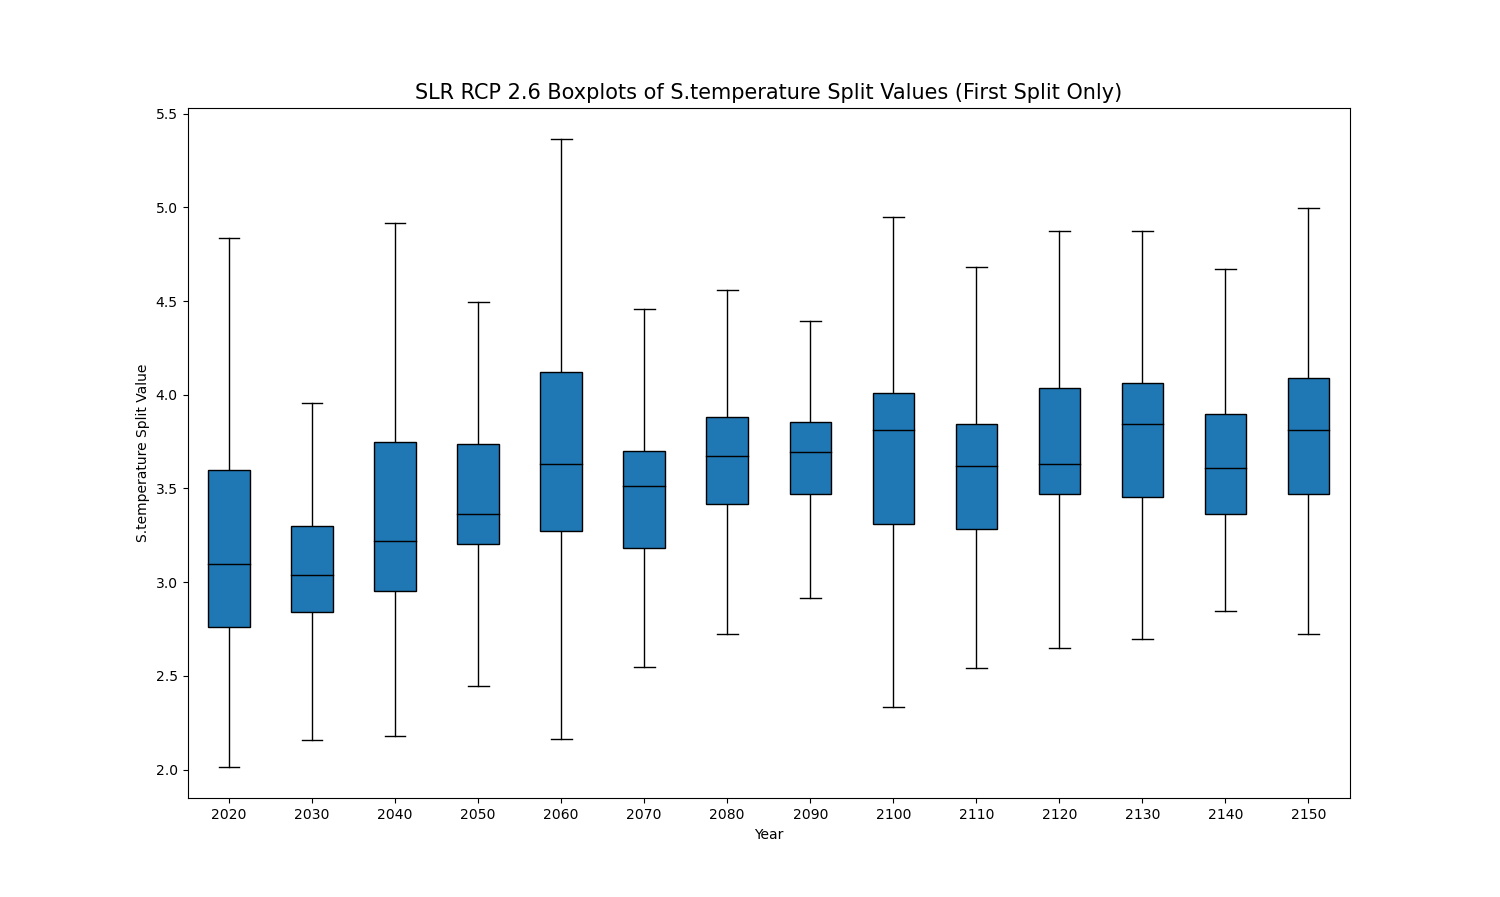
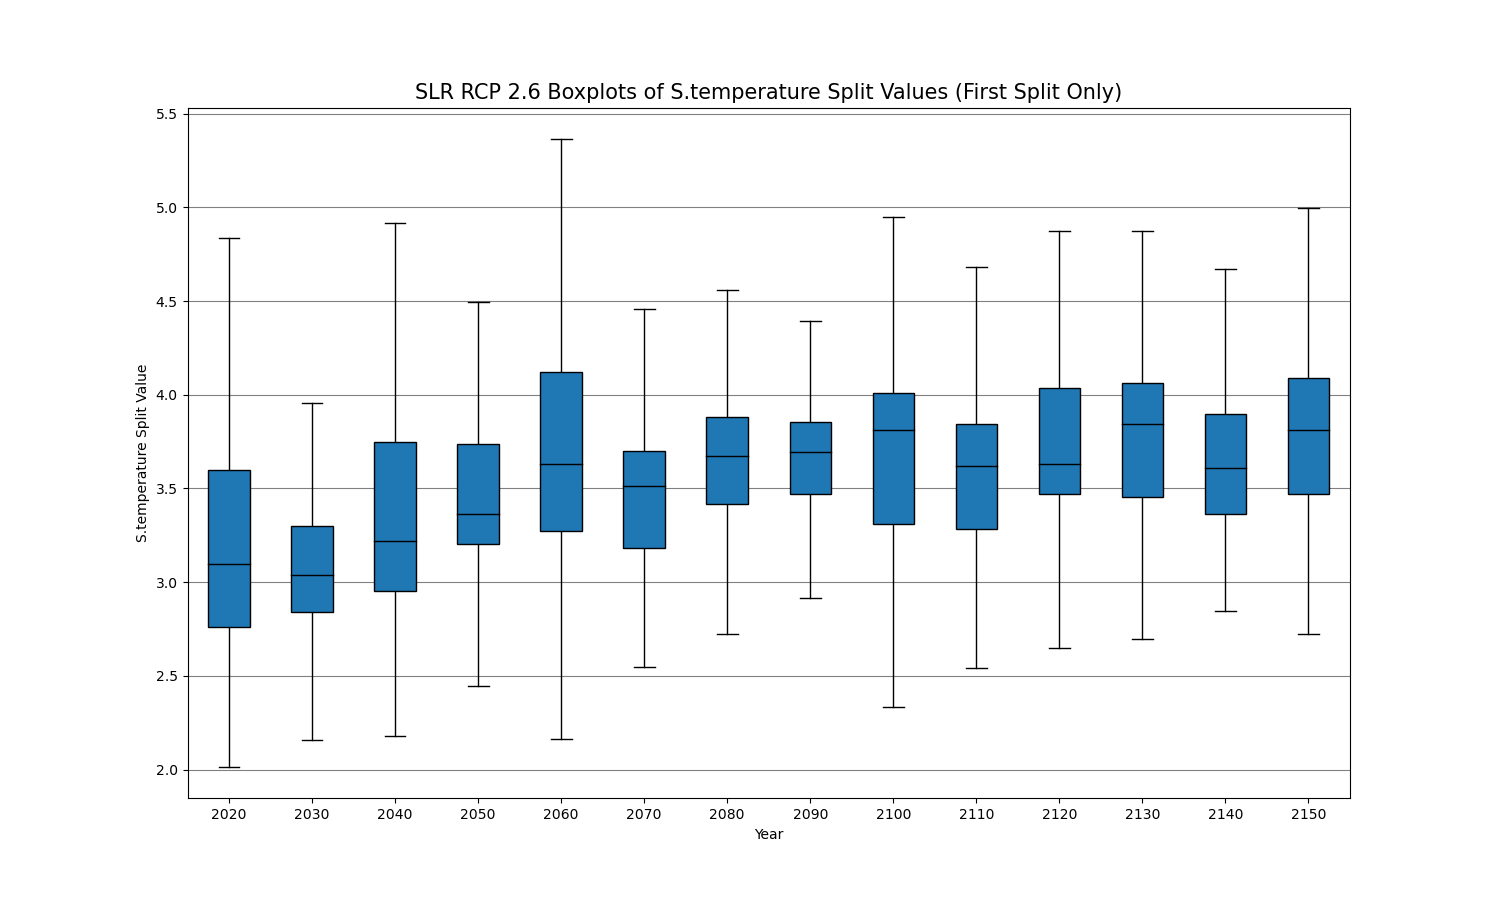
compare max_feature value accuracies & added gridlines to boxplots

diff --git a/python_code/sklearn_slr_classification.py b/python_code/sklearn_slr_classification.py
@@ -752,7 +752,8 @@ def Stemp_boxplots(year_list, rcp, first_only=False, show_outliers=False):
     rcp_no_space_no_period = rcp_no_space.replace(".", "")
     split_df_list = []
     for yr in year_list:
-        file_path = path + rcp_no_space_no_period + "_" + str(yr) + "_splits.csv"
+        file_path = "../data/new_csv/SLR_splits/classification_forest/" + rcp_no_space_no_period + "_" + str(yr) \
+                    + "_splits.csv"
         df = pd.read_csv(file_path)
         split_df_list.append(df)
 
@@ -772,6 +773,7 @@ def Stemp_boxplots(year_list, rcp, first_only=False, show_outliers=False):
     plt.ylabel("S.temperature Split Value")
     plt.xlabel("Year")
     plt.title(title, fontsize=15)
+    plt.grid(b=True, axis='y', color='gray')
     plt.show()
 
 
@@ -912,9 +914,27 @@ if __name__ == '__main__':
     list_10_yrs = []
     for yr in range(2020, 2151, 10):
         list_10_yrs.append(yr)
-    rcp26_forest_list_10yrs = load_forests(list_10_yrs, "rcp26")
-    rcp85_forest_list_10yrs = load_forests(list_10_yrs, "rcp85")
-    path = "../data/new_csv/SLR_splits/classification_forest/"
+    #rcp26_forest_list_10yrs = load_forests(list_10_yrs, "rcp26")
+    #rcp85_forest_list_10yrs = load_forests(list_10_yrs, "rcp85")
+    #path = "../data/new_csv/SLR_splits/classification_forest/"
     #tree_splits(df, "SLR", "RCP 2.6", rcp26_forest_list_10yrs, list_10_yrs, path)
     #tree_splits(df, "SLR", "RCP 8.5", rcp85_forest_list_10yrs, list_10_yrs, path)
-    Stemp_boxplots(list_10_yrs, "RCP 2.6", first_only=False, show_outliers=True)
+    Stemp_boxplots(list_10_yrs, "RCP 8.5", first_only=False, show_outliers=True)
+
+
+    # compare accuracies for max_features = sqrt and max_features = 38
+    #slr_classify = classify_data(slr_rcp85_5step)
+    #df_slr_classify = df.join(slr_classify, how="outer")
+    #df_slr_classify = df_slr_classify.dropna()
+    #features = df.columns.tolist()
+    #yrs = ["2025", "2050", "2075", "2100", "2125", "2150"]
+    #max_feat = ["sqrt", 38]
+    #accuracies = []
+    #for yr in yrs:
+    #    for feature_val in max_feat:
+    #        forest, v_accuracy, t_accuracy = slr_forest(features, df_slr_classify, yr, max_feat=feature_val,
+    #                                                max_d=14, min_samp_leaf=4, min_samples_split=8, n_estimators=500)
+    #        label = yr + ", max_features = " + str(feature_val)
+    #        accuracies.append((label, t_accuracy, v_accuracy))
+    #comparison_df = pd.DataFrame(accuracies, columns=["", "Training Accuracy", "Validation Accuracy"])
+    #comparison_df.to_csv("../data/new_csv/max_features_comparison_accuracies.csv", index=False)
